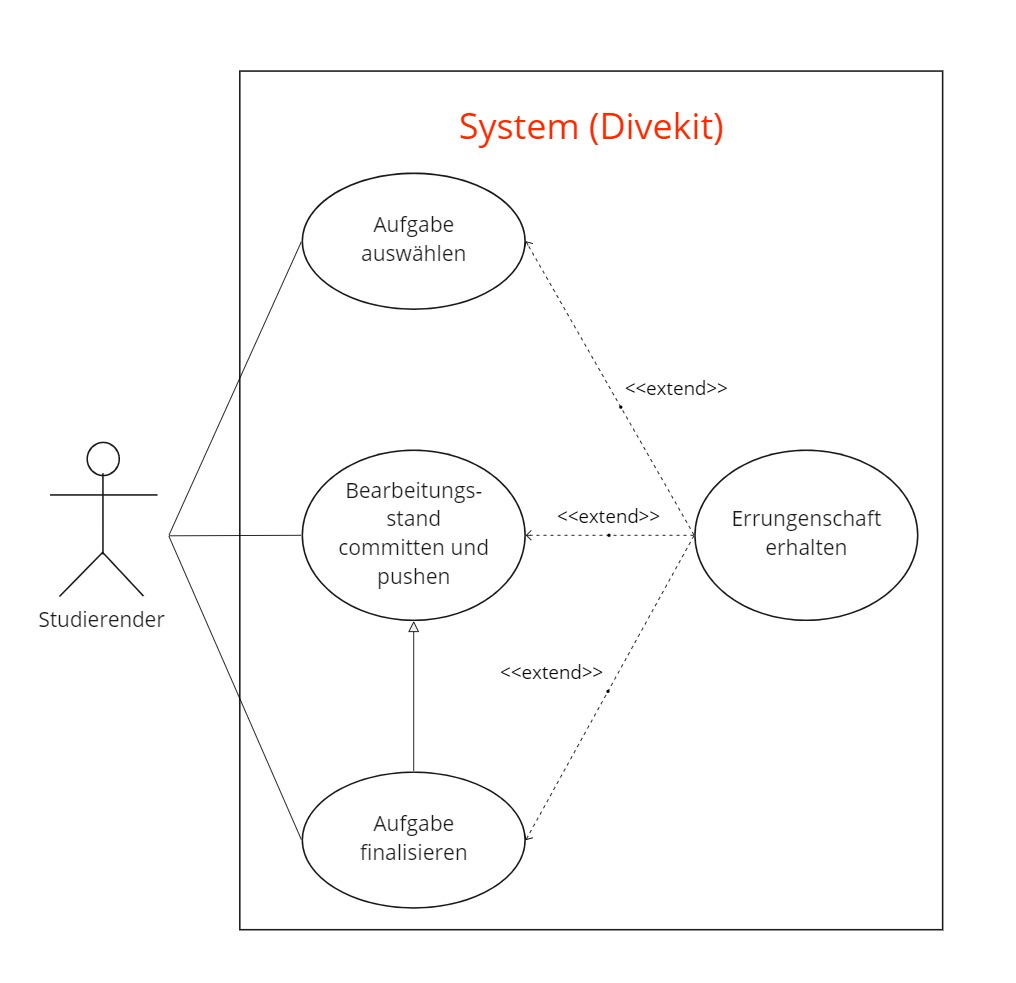
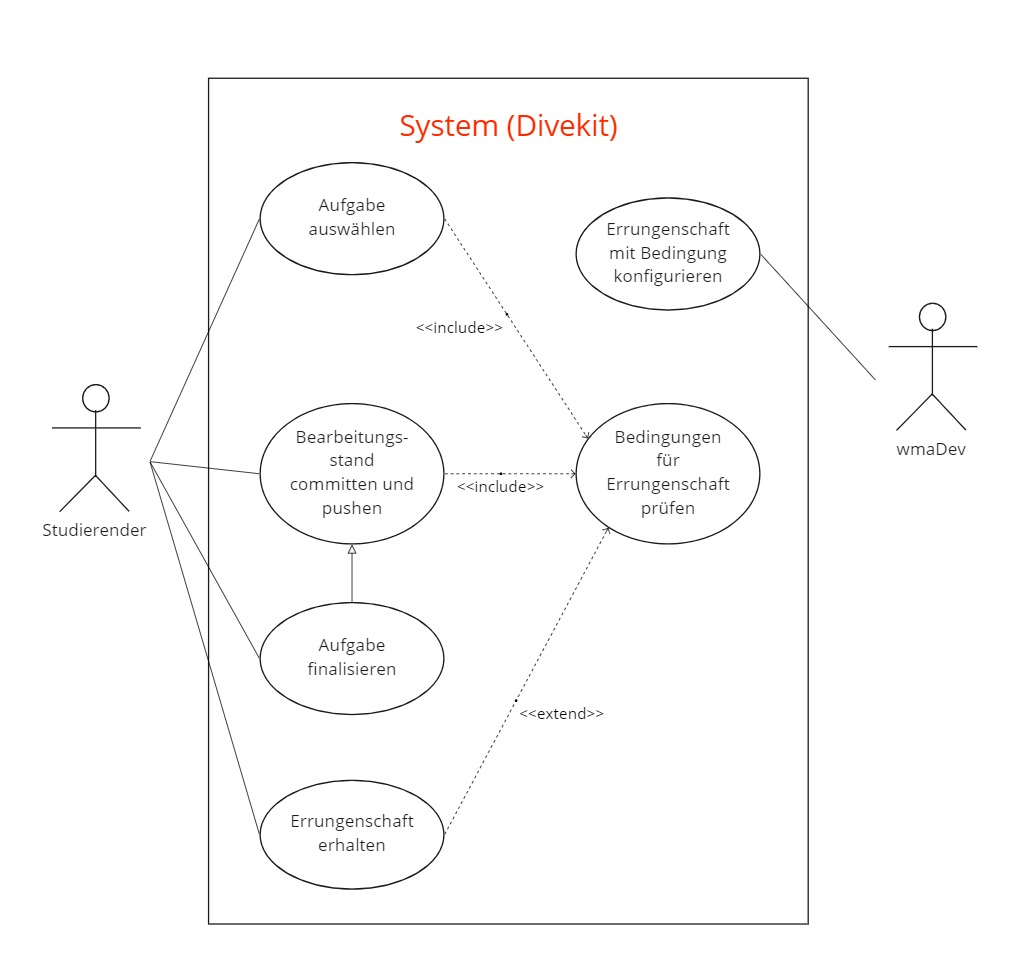
fix(ucd): todos umgesetzt, diagramm verbessert und anmerkungen zu todos ergänzt

diff --git a/_useCaseDiagrams/Gamification.md b/_useCaseDiagrams/Gamification.md
@@ -3,9 +3,16 @@ type: useCaseDiagram
 acronym: Gamification
 responsible: 
     - psc
-title: Use Case Diagram für Gamification
+title: Use Case Diagramm für Gamification
 functionalRequirement: MotivationDurchGamification
 useCases:
+    - Errungenschaften mit Bedingungen konfigurieren
+    - Aufgabe auswählen
+    - Bearbeitungsstand committen und pushen
+    - Bedingungen für Errungenschaft prüfen
+    - Bedingungen manuell prüfen
+    - Aufgabe finalisieren
+    - Errungenschaft erhalten
 useCasesDetailedWithScenario:
     - Gamification
 diagram: ./diagrams/useCaseGamification.jpg
@@ -16,12 +23,16 @@ history:
     v2:
         date: 2021-07-28
         comment: Verbesserungen aus Review umgesetzt
+    v3:
+        date: 2021-07-31
+        comment: Verbesserungen aus Todos umgesetzt + Anmerkungen zu offenen Punkten addiert
 todo: 
-    - (sbe) Ist die Trennung in "Auswahl, Bearbeitung und als Erweiterung das Finalisieren einer Aufgabe" nicht zu kleinteilig? Siehe User Happiness Rule. 
+    - (sbe) Ist die Trennung in "Auswahl, Bearbeitung und als Erweiterung das Finalisieren einer Aufgabe" nicht zu kleinteilig? Siehe User Happiness Rule.
+    - (psc) Schmaler Grad zwischen beiden Extremen. Das Finalisieren kann auch Tage dauern. Daher würde ich das Diagramm für diesen Kontext so lassen und im Falle einer Konkretisierung von Gamification erneut evaulieren. Als erste Idee sollte das passen.
     - (sbe) zumindest - was ist Unterschied zwischen "commit + push" und "finalisieren"? Wie bekommt das System und der WMA es mit, dass ab jetzt nichts mehr kommt?  
-    - (sbe) wenn man die Trennung belässt - wann genau gibts doch Errungenschaft? Potentiell bei jedem der Schritte? 
-    - (sbe) Der WMA als (secondary) Aktor fehlt
-    - (sbe) Es fehlen die Aspekte, Errungenschaften im System zu konfigurieren 
+    - (psc) Der WMA sollte davon möglichst nichts mitbekommen und keine weitere Arbeit haben (siehe Ziel _Entlastung_). Die Errungenschaften sollten automatisiert geprüft und vergeben werden. Allerdings stellt sich hier die Frage, wie Gamification didaktisch sinnvoll integriert werden kann und ob dann eine rein automatisierte Überprüfung in allen Fällen möglich ist.
+    - (sbe) wenn man die Trennung belässt - wann genau gibts doch Errungenschaft? Potenziell bei jedem der Schritte?
+    - (psc) Theoretisch lassen sich zu allen erdenklichen Schritten Errungenschaften entwickeln. Diese können einzelne oder summierte Tätigkeiten sein. z. B. kann der 1000 Commit eine Errungenschaft auslösen
 ---
 
 ## Beschreibung
@@ -30,15 +41,17 @@ Dieses Usecase-Diagramm stellt eine mögliche Option der funktionalen Anforderun
 
 Der primäre Nutzer ist hierbei der Studierende, der durch die Interaktion mit dem System (Divekit) entsprechende Errungenschaften erlangen kann.
 
-Exemplarisch wird im Use Case Diagramm die Auswahl, Bearbeitung und als Erweiterung das Finalisieren einer Aufgabe abgebildet.
+Exemplarisch wird im Use Case Diagramm allgemein die Arbeit (Auswahl, Bearbeitung und als Erweiterung das Finalisieren einer Aufgabe) mit dem DiveKit abgebildet. Aufgabenspezifische Errungenschaften werden hier nicht abgebildet. Dies bedeutet zudem, dass eine Überprüfung möglichst automatisiert erfolgen sollte.
 
-Der Studierende erhält bei der Auswahl der ersten Aufgabe eine Errungenschaft.
+Um Errungenschaften zu erhalten, sind diese im Vorfeld vom Entwickler mit Bedingungen zu konfiguieren.
 
-Der Studierende erabeitet dann die Aufgabe und stellt, sobald ein erster Bearbeitungsstand vorliegt, den ersten Commit und pushed diesen in sein Repo. Das System checkt, ob die Bedingungen für eine Errungenschaft erfüllt sind. Der Studierende erhält eine weitere Errungenschaft.
+Wählt der Studierende zum ersten Mal eine Aufgabe aus, so erfüllt er eine Bedingung und erhält somit eine Errungenschaft.
 
-Der Studierende finalisiert die Aufgabe und pushed diese zur Überprüfung in das System. Ist die Überprüfung erfolgreich, wird eine Errungenschaft vergeben.
+Der Studierende erabeitet dann die Aufgabe und stellt, sobald ein erster Bearbeitungsstand vorliegt, den ersten Commit und pushed diesen in sein Repo. Das System überprüft, ob die Bedingungen für eine Errungenschaft erfüllt sind. Zum Beispiel, ob der bereitgestellt Commit der aller erste ist. Der Studierende erhält eine weitere Errungenschaft.
 
-Weist die Aufgabe Fehler auf, vergibt das System auch Errungenschaften.
+Der Studierende finalisiert (dies wäre erfüllt, wenn die Aufgabe Kontrollmechanismen hat wie zum Beispiel Tests bei Codingaufgaben) die Aufgabe und pushed diese zur Überprüfung in das System. Ist die Überprüfung erfolgreich und werden Bedingungen einer Errungeschaft erfüllt, wird eine Errungenschaft vergeben.
+
+Weist die Aufgabe hingegen Fehler auf, kann dies auch zum Erfüllen von Errungenschaften ausreichen und Errungenschaften vergeben.
 
 
 
